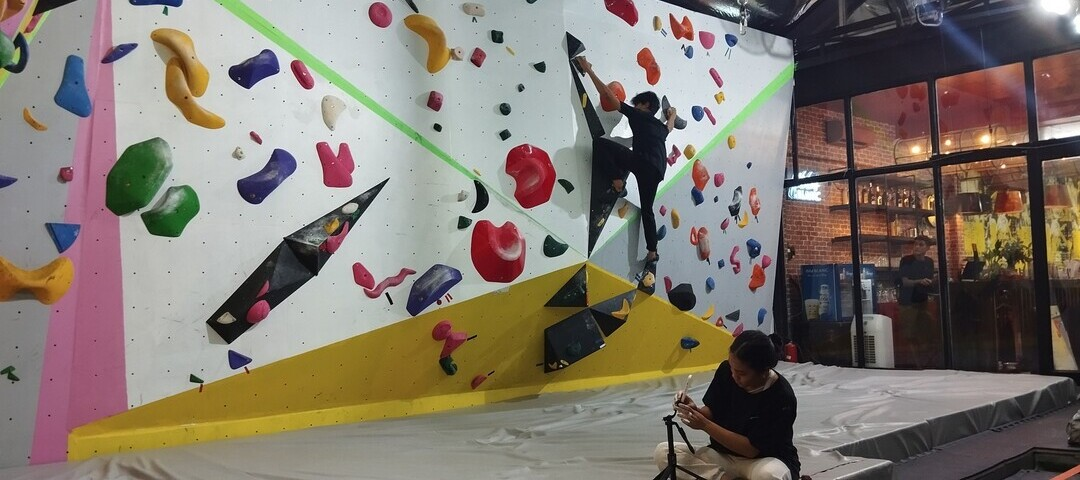
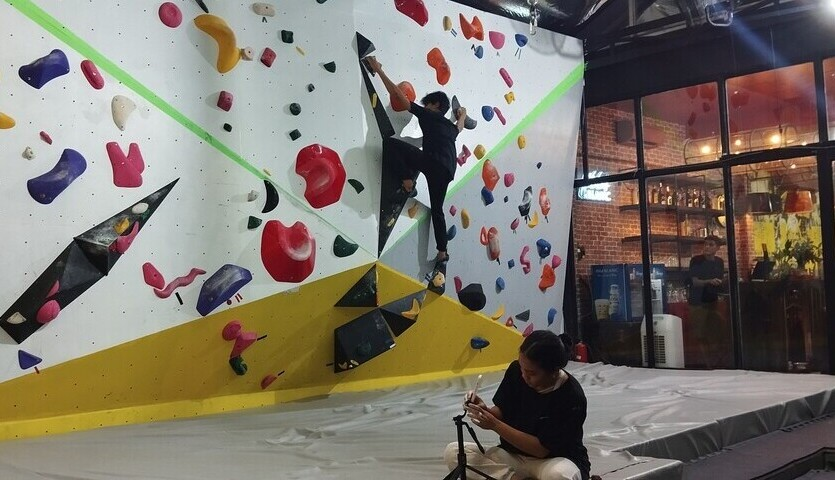
feat: font and image size

diff --git a/apps/landing-page/src/components/SchechuleBlock/schechuleBlock.module.scss b/apps/landing-page/src/components/SchechuleBlock/schechuleBlock.module.scss
@@ -1,5 +1,5 @@
 .SchechuleBlock {
-  padding: 30rem 20rem 0 20rem;
+  padding: 30rem;
   border-radius: 20rem;
   background: var(--ffffff, #fff);
   box-shadow:
@@ -22,8 +22,11 @@
       p {
         font-size: 16rem;
         font-weight: 500;
-        color: var(--414751);
+        color:var(--798087, #798087)
       }
+    }
+    img {
+      height: auto;
     }
     .schechuleBlock_b-body {
       border-radius: 12rem;
@@ -118,6 +121,9 @@
         p {
           font-size: 20rem;
         }
+      }
+      img {
+        height: auto;
       }
       .schechuleBlock_b-body {
         border-radius: 20rem;

diff --git a/apps/landing-page/src/containers/InteriorPage/climbingGrades.module.scss b/apps/landing-page/src/containers/InteriorPage/climbingGrades.module.scss
@@ -78,8 +78,10 @@
           box-shadow:
             20rem 20rem 60rem 0rem rgba(139, 140, 160, 0.4),
             5rem 5rem 15rem 0rem rgba(139, 140, 160, 0.15);
-          padding: 40rem;
-
+          padding: 30rem;
+          img {
+            height: auto;
+          }
           ul {
             li {
               list-style: none;
@@ -242,7 +244,9 @@
             border-radius: 40rem;
             width: 840rem;
             padding: 40rem;
-
+            img {
+              height: auto;
+            }
             ul {
               display: flex;
               justify-content: space-between;

diff --git a/apps/landing-page/src/containers/InteriorPage/introToClimbing.module.scss b/apps/landing-page/src/containers/InteriorPage/introToClimbing.module.scss
@@ -88,14 +88,12 @@
 
           .introToClimbing-block {
             position: relative;
-            padding: 30rem 0 40rem;
+            padding: 30rem;
 
             img {
               z-index: 1;
               position: relative;
               height: auto;
-              width: 295rem;
-
               &:nth-child(2) {
                 position: absolute;
                 z-index: 2;
@@ -183,6 +181,7 @@
 
               img {
                 width: 708rem;
+                height: auto;
 
                 &:nth-child(2) {
                   top: 140rem;

diff --git a/apps/landing-page/src/containers/InteriorPage/IntroToClimbing.tsx b/apps/landing-page/src/containers/InteriorPage/IntroToClimbing.tsx
@@ -18,8 +18,8 @@ const IntroToClimbing = memo(({ className = '' }: IntroToClimbingProps) => (
           </h4>
         </div>
         <div className="introToClimbing-content fade-up-element">
-          <div className="iintroToClimbing-block">
-            <Image width={600} height={500} quality={100} src="/imagesN/first-time.jpg" alt="document" />
+          <div className="introToClimbing-block">
+            <Image width={660} height={540} quality={100} src="/imagesN/first-time.jpg" alt="document" />
           </div>
         </div>
       </div>

diff --git a/apps/landing-page/src/components/CleanBlock/CleanBlock.tsx b/apps/landing-page/src/components/CleanBlock/CleanBlock.tsx
@@ -10,7 +10,7 @@ export default function CleanBlock({ className = '' }: CleanBlockProps) {
         <h3>Join the Community</h3>
         <p>Want to climb more often? You won't want to keep paying for Day Passes - consider a Membership or Punch Card and learn which is right for you.</p>
       </div>
-      <Image width={700} height={400} quality={100} src="/imagesN/community.jpg" alt="table" />
+      <Image width={667} height={500} quality={100} src="/imagesN/community.jpg" alt="table" />
     </div>
   );
 }

diff --git a/apps/landing-page/src/components/CleanBlock/cleanBlock.module.scss b/apps/landing-page/src/components/CleanBlock/cleanBlock.module.scss
@@ -1,5 +1,5 @@
 .CleanBlock {
-  padding: 30rem 20rem 30rem 20rem;
+  padding: 30rem;
   border-radius: 20rem;
   background: #fff7ef;
   overflow: hidden;
@@ -19,8 +19,11 @@
       p {
         font-size: 16rem;
         font-weight: 500;
-        color: var(--414751);
+        color:var(--798087, #798087)
       }
+    }
+    img {
+      height: auto;
     }
   }
 }
@@ -40,6 +43,9 @@
         p {
           font-size: 20rem;
         }
+      }
+      img {
+        height: auto;
       }
     }
   }

diff --git a/apps/landing-page/src/components/SchechuleBlock/SchechuleBlock.tsx b/apps/landing-page/src/components/SchechuleBlock/SchechuleBlock.tsx
@@ -65,7 +65,7 @@ export default function SchechuleBlock({className = ''}: SchechuleBlockProps) {
         <h3>Host a Party or Group Event</h3>
         <p>Our parties include everything you need to throw the party of a lifetime, at a price that you will love.</p>
       </div>
-      <Image width={700} height={400} quality={100} src="/imagesN/event.jpg" alt="table" />
+      <Image width={667} height={500} quality={100} src="/imagesN/event.jpg" alt="table" />
     </div>
   );
 }

diff --git a/apps/landing-page/src/components/EducationBlock/EducationBlock.tsx b/apps/landing-page/src/components/EducationBlock/EducationBlock.tsx
@@ -6,7 +6,7 @@ import styles from './educationBlock.module.scss';
 export default function EducationBlock({className = ''}: EducationBlockProps) {
   return (
     <div className={`${styles.EducationBlock} ${className}`}>
-     <Image width={700} height={400} quality={100} src="/imagesN/poster-1.jpg" alt="table" />
+     <Image width={677} height={677} quality={100} src="/imagesN/poster-1.jpg" alt="table" />
     </div>
   );
 }

diff --git a/apps/landing-page/src/components/EducationBlock/educationBlock.module.scss b/apps/landing-page/src/components/EducationBlock/educationBlock.module.scss
@@ -41,11 +41,10 @@
           background: var(--ffb-25-c, #ffb25c);
         }
       }
-      img {
-        width: 28rem;
-        height: auto;
-        margin: 0 10rem;
-      }
+      
+    }
+    img {
+      height: auto;
     }
   }
 }
@@ -71,8 +70,7 @@
           }
         }
         img {
-          width: 42rem;
-          margin: 0 16rem;
+          height: auto;
         }
       }
     }

diff --git a/apps/landing-page/src/containers/HomeN/introductionSection.module.scss b/apps/landing-page/src/containers/HomeN/introductionSection.module.scss
@@ -2,7 +2,7 @@
 
 .IntroductionSection {
   padding: 48rem 0;
-  background-image: linear-gradient(80deg,rgba(24,17,17,0.5) 0%,rgba(2,0,0,0.3) 100%),url('/imagesN/Artboard.webp');
+  background-image: linear-gradient(80deg,rgba(24,17,17,0.5) 0%,rgba(2,0,0,0.3) 100%),url('/imagesN/home.jpg');
   background-position: 50%;
   background-size: 100%;
   background-size: cover;

diff --git a/apps/landing-page/src/containers/HomeN/index.ts b/apps/landing-page/src/containers/HomeN/index.ts
@@ -2,11 +2,9 @@
 import IntroductionSection from './IntroductionSection';
 import NoteServicesSection from './NoteServicesSection';
 import FeaturedServiceSection from './FeaturedServiceSection';
-import GeneralNoteSection from './GeneralNoteSection';
 
 export {
   IntroductionSection,
   NoteServicesSection,
   FeaturedServiceSection,
-  GeneralNoteSection,
 };

diff --git a/apps/landing-page/src/app/styles/index.scss b/apps/landing-page/src/app/styles/index.scss
@@ -64,7 +64,9 @@ img {
     box-shadow:
       20rem 20rem 60rem 0rem rgba(139, 140, 160, 0.4),
       5rem 5rem 15rem 0rem rgba(139, 140, 160, 0.15);
-
+      img {
+        height: auto;
+      }
     .ant-modal-close {
       background-color: transparent;
       &:hover {
